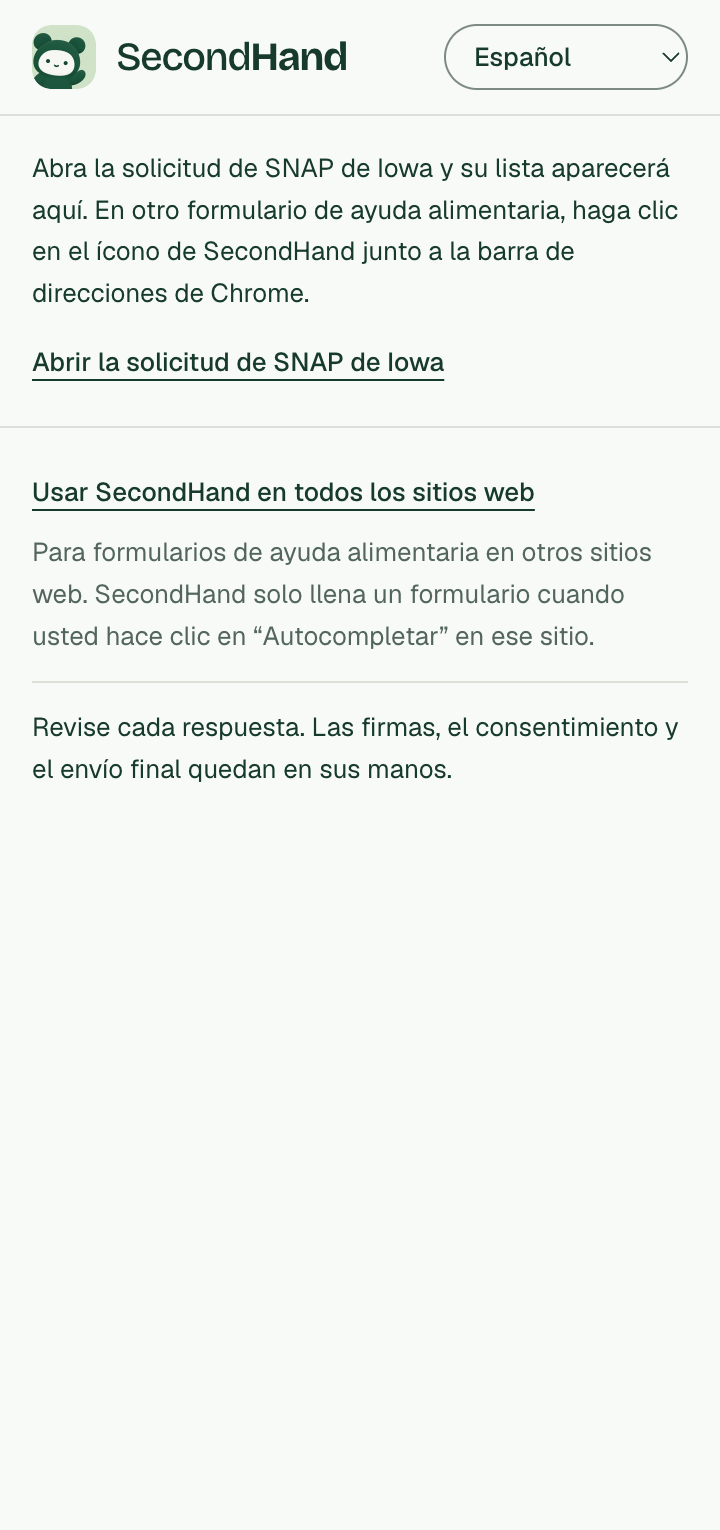
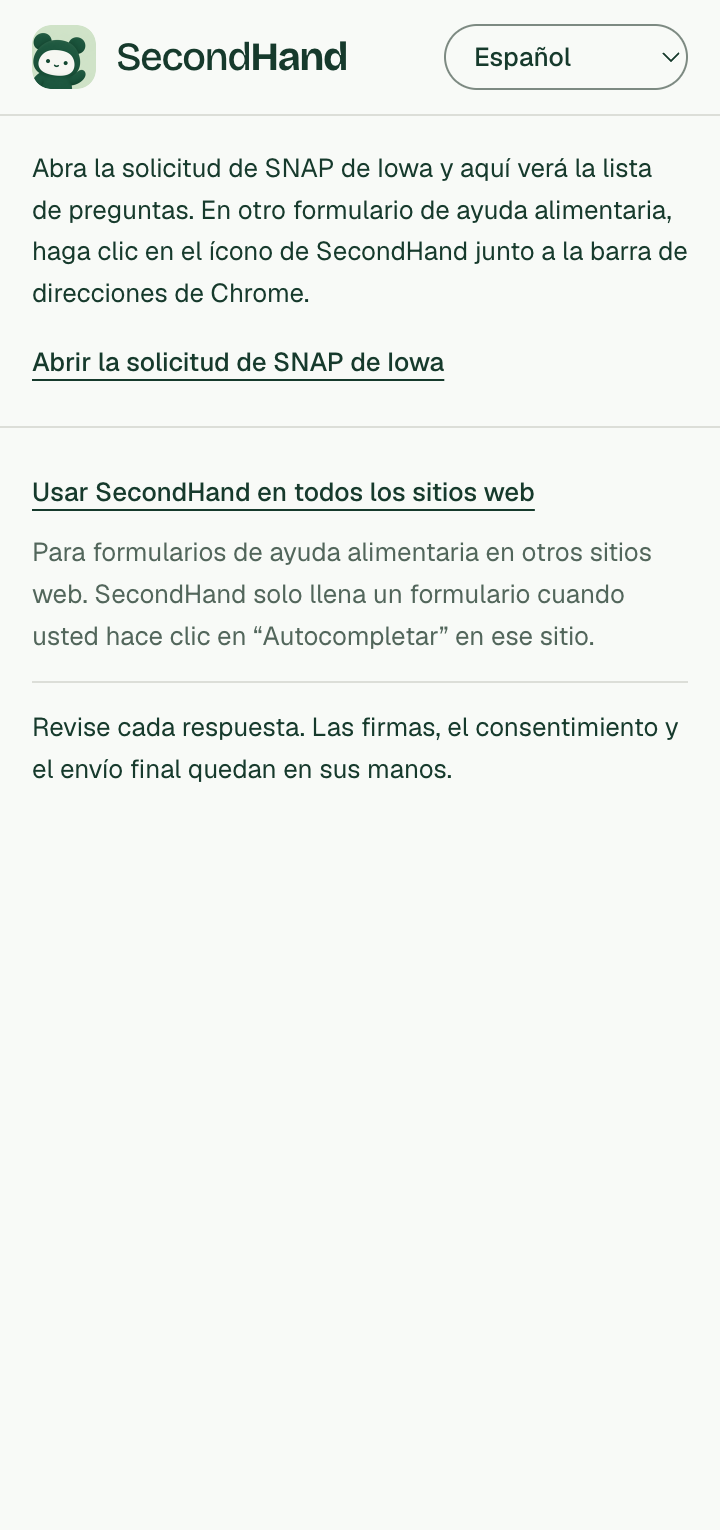
fix: smaller Spanish wording a Spanish reader found stiff or unclear
"Detener no borra nada" becomes "Si lo detiene, no se borra nada", and
the side panel's line "Si detiene el autocompletado, no se borra nada".
"Una pregunta sin etiqueta" becomes "Una pregunta sin nombre", the side
panel says whose list appears ("aquí verá la lista de preguntas"), and
Iowa's questions read "Apellido(s)" and "Sufijo (Jr., Sr.)". Spanish
only; the cards still show every word.

Changed region(s): [[0.0611, 0.0922, 0.9472, 0.1843]]

diff --git a/extension/strings.js b/extension/strings.js
@@ -405,7 +405,7 @@
     'widget.unlock': 'Desbloquear SecondHand',
     'widget.stop': 'Detener',
     'widget.stopTitle': 'Detener el autocompletado. No se borra nada.',
-    'widget.stopNote': 'Detener no borra nada.',
+    'widget.stopNote': 'Si lo detiene, no se borra nada.',
     'widget.detailsTitle': 'Abrir el panel lateral de SecondHand',
     'widget.iowaReady': 'La aplicación SecondHand le pide permiso primero. Luego llena cada página y pasa sola a la siguiente. Si Iowa muestra direcciones, elige la primera: revísela. Nunca firma ni envía su solicitud.',
     'widget.iowaReadyAgain': 'SecondHand llena cada página y pasa solo a la siguiente. Si Iowa muestra direcciones, elige la primera: revísela. Nunca firma ni envía su solicitud.',
@@ -447,7 +447,7 @@
     'panel.autofill': 'Autocompletar esta página',
     'panel.autofillIowa': 'Iniciar el autocompletado',
     'panel.stopAutofill': 'Detener el autocompletado',
-    'panel.stopNote': 'Detener termina el autocompletado y no borra nada.',
+    'panel.stopNote': 'Si detiene el autocompletado, no se borra nada.',
     'panel.goToLeft': { one: 'Ir a la pregunta que falta', other: 'Ir a la siguiente de las {count} preguntas que faltan' },
     'panel.checkingTab': 'Revisando la solicitud en su pestaña activa…',
     'panel.siteDisable': 'Desactivar SecondHand para este sitio',
@@ -458,7 +458,7 @@
     'panel.reloadToRead': 'Recargue esta página para que SecondHand pueda leerla.',
     'panel.siteOff': 'SecondHand puede llenar formularios en {host} después de que lo active aquí y lo apruebe en la aplicación SecondHand.',
     'panel.nothingToFill': 'No hay nada que llenar en esta página. Continúe en el formulario de Iowa.',
-    'panel.openIowa': 'Abra la solicitud de SNAP de Iowa y su lista aparecerá aquí. En otro formulario de ayuda alimentaria, haga clic en el ícono de SecondHand junto a la barra de direcciones de Chrome.',
+    'panel.openIowa': 'Abra la solicitud de SNAP de Iowa y aquí verá la lista de preguntas. En otro formulario de ayuda alimentaria, haga clic en el ícono de SecondHand junto a la barra de direcciones de Chrome.',
     'panel.openIowaLink': 'Abrir la solicitud de SNAP de Iowa',
     'panel.stopping': 'Deteniendo el autocompletado…',
     'panel.filling': 'Esperando a la aplicación SecondHand. Si su ventana le pide permiso, no se llena nada hasta que usted lo permita. La ventana puede abrirse detrás de Chrome y está en inglés: “Allow once” es solo esta vez; “Always allow on this computer”, siempre.',
@@ -522,7 +522,7 @@
     'guesses.rowLabel': 'Buscar en la página la respuesta que Laya adivinó para “{label}”',
     'checklist.rowLabel': '{label}: {status}. Ir a esta pregunta.',
     'left.title': 'Por contestar',
-    'left.unnamed': 'Una pregunta sin etiqueta',
+    'left.unnamed': 'Una pregunta sin nombre',
     'left.held': 'Espera a “Llenar datos sensibles”',
     'filled.title': 'Llenadas por SecondHand',
     'filled.guessed': 'Adivinada por Laya, revísela',
@@ -658,8 +658,8 @@
 
     'iowa.firstName': 'Nombre',
     'iowa.middleName': 'Segundo nombre',
-    'iowa.lastName': 'Apellido',
-    'iowa.suffix': 'Sufijo',
+    'iowa.lastName': 'Apellido(s)',
+    'iowa.suffix': 'Sufijo (Jr., Sr.)',
     'iowa.maidenName': 'Apellido de soltera',
     'iowa.homePhone': 'Teléfono de casa',
     'iowa.mobilePhone': 'Teléfono celular',
